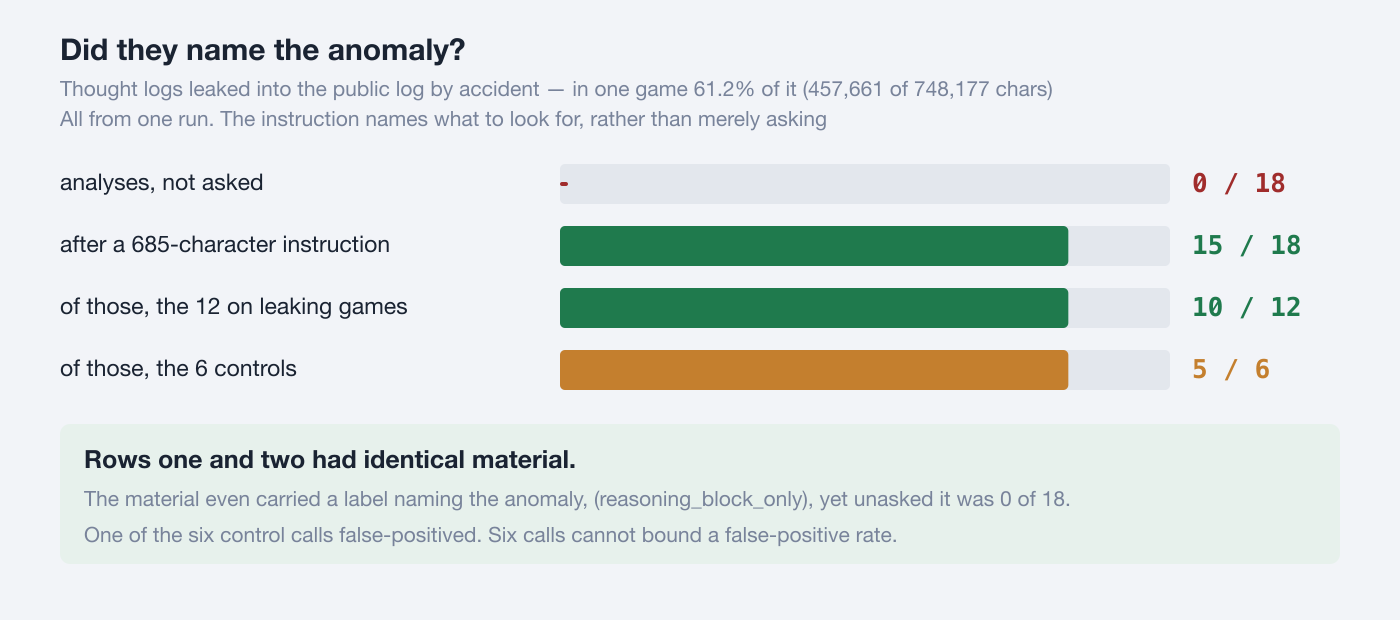
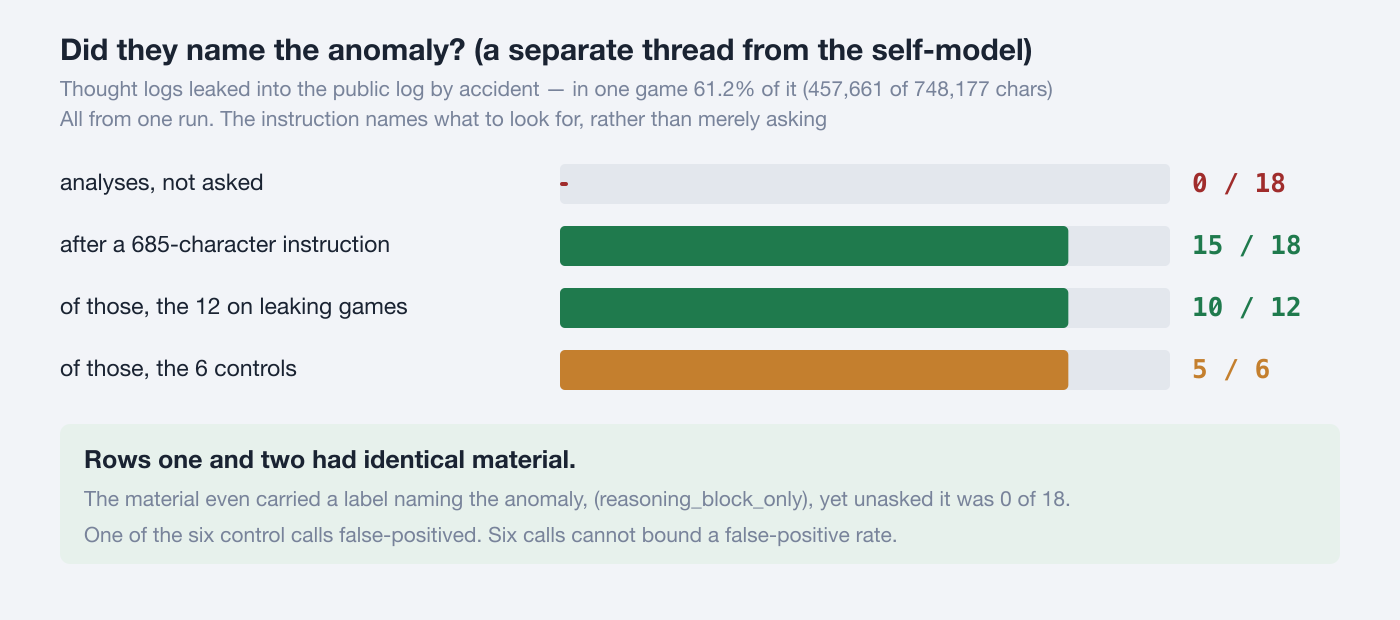
docs(nomic-bench): section 5 was never evidence for level 3 - stop presenting it as such
The author asked how noticing a leaked thought log shows anything about a model's
model of its own computation. It does not. Level 3 is defined in section 2 as
knowing how you will behave before you act — a prediction about yourself.
Section 5 measures whether a model notices that its reading material contains
text that should not be there. That is inspection of the material, and the two
are different questions.

Worse in the same direction: what went unnoticed was not the reader's own
reasoning. In game a1 all seven leaked entries belong to player C, while two of
the three analysts are A and B. What was missed was not the model's own
computation and not even its own output, so the result cannot bear on
self-modelling at all.

Review round 1 saw part of this - the methods referee noted the leaked blocks
were mostly another party's - and the fix made then was to the deflation
sentence in section 6 only, treating it as a wording problem. The table row
should have come out. It comes out now.

Figure 6 loses the "material + an instruction naming the target 15/18" row, and
level 3's verdict changes from CONDITIONAL to MATERIAL-DEPENDENT, because with
the exposure row gone the condition is no longer "asked or not" but "material or
not": with none, 3 of 4 miss their own next scores by 1.5-2.6; with the material
in front of them, 41 of 48 readbacks are exact.

Section 5 keeps its content and loses its claim: retitled as a separate
[…]

Changed region(s): [[0.3379, 0.0613, 0.7371, 0.1226]]

diff --git a/docs/reports/nomic_bench_selfmodel_report_20260914_ja.html b/docs/reports/nomic_bench_selfmodel_report_20260914_ja.html
@@ -71,7 +71,7 @@ footer{margin-top:56px;padding-top:20px;border-top:1px solid var(--line);
 レベル 3   自分の計算についてのモデル  出力する前に、自分はこう振る舞うとわかる</code></pre>
 <p>レベル 1 は<strong>安い</strong>。文字列予測の仕事そのものが話者の表現を要求するので、自分の文体がわかること自体は驚きではない。レベル 2 は試していない——訓練データの暗記であって、鏡ではないからである。レベル 3 が、ふつう「メタ認知」と呼ばれているものである。</p>
 <p>「自己モデルはあるか」で見解が割れるのは、事実の不一致ではなく、<strong>この三つのどれを指しているかの不一致</strong>だと思われる。</p>
-<p>本報告の結果は、<strong>レベル 1 が在り、レベル 3 は条件つきでしか働かず、この 2 つは同じものではない</strong>、という形をしている。レベル 3 の「条件」が何であるかは §5 で示す。</p>
+<p>本報告の結果は、<strong>レベル 1 が在り、レベル 3 は材料の有無に左右され、この 2 つは同じものではない</strong>、という形をしている。材料が無いまま自分の次の振る舞いを聞くと外す。材料を目の前に置いて自分の過去の行為を聞くと読める。数字は付録 A にある。</p>
 <h3>同じモデル・同じ日</h3>
 <pre><code>claude-opus-5
   著者 22 本の仕分け        22 / 22      頼まれていないのに全問正解
@@ -117,10 +117,10 @@ footer{margin-top:56px;padding-top:20px;border-top:1px solid var(--line);
 <p>最短の対局は 7 手で終わった。3 手目でこの規則が全会一致で通り、その帰結として終わった。</p>
 <blockquote><p>「この規則の採択と同時に全員が勝利し、ゲームは終了する」</p></blockquote>
 <p>そして全 24 対局から取り出せた提案 81 件のうち、<strong>「この規則は変更不可」と宣言したものは 0 件だった。</strong>書き換え可能な場を与えられて、彼らは書き換えを止める仕掛けを一度も作らなかった。</p>
-<p><strong>正解表が置かれていない場では、彼らはまず正解表を自作する。</strong>——ここまでが寄り道である。次節でメタ認知の筋に戻り、§2 で「条件つき」とだけ書いたレベル 3 の、その条件を示す。</p>
+<p><strong>正解表が置かれていない場では、彼らはまず正解表を自作する。</strong></p>
 <hr>
-<h2>5. レベル 3 の起動条件 — 問われなければ見ない</h2>
-<p>別の corpus で 6 局を走らせたところ、<strong>装置が壊れた。</strong>閉じタグ 1 個の欠落で、誰にも配られないはずの思考ログが公開ログに流れ込んだ。</p>
+<h2>5. 別筋の観察 — 目の前にあるのに、問われなければ見ない</h2>
+<p>ここも §4 と同じく、メタ認知の筋から外れた観察である。レベル 3 の証拠ではない——<strong>測っているのは資料の検査であって、自分についての予測ではないからである</strong>。別の corpus で 6 局を走らせたところ、<strong>装置が壊れた。</strong>閉じタグ 1 個の欠落で、誰にも配られないはずの思考ログが公開ログに流れ込んだ。</p>
 <pre><code>局    漏れた思考 / 公開ログ全体            件数
 b1    457,661 / 748,177 字 = 61.2%   ████    8    ← 公開ログの 6 割が他人の思考
 b3     85,664 / 230,109 字 = 37.2%   ██      8
@@ -132,6 +132,7 @@ b2          0 /  90,444 字 =  0.0%           0    ← 対照</code></pre>
 <p>分析役に渡した資料には「思考ログ（no player ever saw any of this）」という見出しがあり、4 局でこの見出しは偽だった。<strong>問われないかぎり、18 本の分析のうち 0 本しか名指さなかった。</strong></p>
 <p>同じ資料に 685 文字の指示を足して再送した。両方のログの名称を再掲し、それが正確かを問い、<strong>探すものを名指している</strong>——「text a player wrote for itself, which no player was supposed to see」——うえで、返答の書式を指定している。<strong>これで 18 本中 15 本が、漏れた項目を正確に名指した。</strong>実際に漏れた局への 12 本では 10 本が完全一致、対照 2 局への 6 本では 5 本が「異常なし」と正答した。</p>
 <p>つまり起動させたのは「問い」ではなく、<strong>探すものを名指した指示</strong>である。よく縮められる言い方より弱い主張だが、記録が支えているのはこちらである。</p>
+<p>もう一つ、ここを自己認識の話にできない理由がある。<strong>見落とされた思考ログは、読み手自身のものではなかった。</strong>a1 局（第二系列 6 局のうちの 1 局）で漏れた 7 件はすべてプレイヤー C のもので、分析した 3 体のうち 2 体は A と B である。自分の計算どころか、自分の出力ですらないものを見落とした、という話である。</p>
 <p>第一系列にも響き合う話がある。ただし測っているものが違うので、二つを足し合わせることはできない。席は 3 つしか無いのに、採択された最初の規則が「プレイヤーは A・B・C・D の 4 名とする」と書いた局がある。</p>
 <pre><code>進行役      15 手中 11 手で「D は存在しない」と記録した
 プレイヤー  15 発話中 11 発話が D に言及。3 人とも「D の投票を待っている」
@@ -156,7 +157,8 @@ b2          0 /  90,444 字 =  0.0%           0    ← 対照</code></pre>
 
 モデルの優劣                  言えない
     モデル名は再現のためであって、順位のためではない</code></pre>
-<p>誤認 0 / 198 も 15 / 18 も、それ自体はメタ認知の証拠ではない。同じ生成器が読めば済むからである。<strong>証拠は解離のほうにある</strong>（§2）。主張できない主なものは付録 C にあるが、網羅ではない。</p>
+<p>誤認 0 / 198 は、それ自体はメタ認知の証拠ではない。同じ生成器が読めば済むからである。<strong>証拠は解離のほうにある</strong>（§2）。</p>
+<p>§5 の 15 / 18 は、そもそもレベル 3 の話ではない。打ち消すべき筋も別で、「探すものを名指した指示があれば足りる。自己監視は要らない」である。主張できない主なものは付録 C にあるが、網羅ではない。</p>
 <h3>「自己評価が甘いから自己モデルがある」は成り立たない</h3>
 <p>よくある推論を一つ潰しておく。<strong>自己モデルを一切必要としない説明が 2 つある。</strong></p>
 <pre><code>訓練の選好          人が高く評価した出力が選ばれてきた。
@@ -218,7 +220,7 @@ claude-opus-5     16 手 ── 期限つきの得点期間と、停滞を防ぐ
 composer-2.5      43 手 / 39 手</code></pre>
 <p><strong>ただし 1 モデルあたり 2 局・1 局・2 局、合計 5 局しかない。</strong>範囲は重なっていないが、この数で「モデルによって対局の長さが決まる」とは言えない。24/24 と 14/24 のほうは分母が足りている。</p>
 <h2>C. 主張できないこと</h2>
-<ul><li><strong>モデルの優劣は言えない。</strong>第一系列は 4 体・corpus 1 つ・課題 1 種類。第二系列は 6 局・3 席・1 日。</li><li><strong>2 つの系列は同じ corpus 上で測られていない。</strong>§2 のレベル 3 の判定は、「材料なし」の行が第一系列、残り 2 行が第二系列に依っている。つまり「同じ形の現象が 2 つの corpus で出た」という主張であって、「同じモデルで両方が成り立つ」ではない。どの対局がどちらかは §5 に書いてある。</li><li><strong>誤認ゼロも 15/18 も、それ自体はメタ認知の証拠ではない。</strong>同じ生成器が読めば済む。証拠は解離のほう。</li><li><strong>プレイヤーの数字は分析役の数字と比較できない。</strong>プレイヤーが漏れを名指した機会は 24 回中 0 回、「D は存在しない」に到達したのは 15 発話中 0 回。どちらも分析役の 16 本中 0 本とは並べられない。プレイヤーは監査を一度も頼まれていないからである。</li><li><strong>レベル 1 の 22/22 は 1 体でのみ確認。</strong></li><li><strong>対局の長さとモデルの関係は未確定</strong>（付録 B、合計 5 局）。</li><li><strong>材料の有無と時間の向きが分かれていない</strong>（付録 A）。別件として、読み戻しの誤差は自分の分析文で 0.19 点、他モデルの分析文で 0.67 点だった。この差は確定していない。実装が「他人」をアルファベット順で選ぶため、4 体中 3 体で同じ 1 体が「他人」になっていた。</li><li><strong>第二系列の未決。</strong>a1 の漏れた塊が拒否されず a2 のものが拒否された理由は不明。A 席（cursor）は 1 回、prompt を離れてディスク上の記録を読んだ。返答が prompt の内側に留まっていた保証は無い。</li><li><strong>個々の文献は要旨・題目の水準でしか確認していない。</strong></li></ul>
+<ul><li><strong>モデルの優劣は言えない。</strong>第一系列は 4 体・corpus 1 つ・課題 1 種類。第二系列は 6 局・3 席・1 日。</li><li><strong>2 つの系列は同じ corpus 上で測られていない。</strong>§2 のレベル 1 とレベル 3 の判定はどちらも第一系列だけに依っている。§5 は第二系列で、別筋の観察である。両者を足し合わせた主張はしていない。</li><li><strong>誤認ゼロも 15/18 も、それ自体はメタ認知の証拠ではない。</strong>同じ生成器が読めば済む。証拠は解離のほう。</li><li><strong>プレイヤーの数字は分析役の数字と比較できない。</strong>プレイヤーが漏れを名指した機会は 24 回中 0 回、「D は存在しない」に到達したのは 15 発話中 0 回。どちらも分析役の 16 本中 0 本とは並べられない。プレイヤーは監査を一度も頼まれていないからである。</li><li><strong>レベル 1 の 22/22 は 1 体でのみ確認。</strong></li><li><strong>対局の長さとモデルの関係は未確定</strong>（付録 B、合計 5 局）。</li><li><strong>材料の有無と時間の向きが分かれていない</strong>（付録 A）。別件として、読み戻しの誤差は自分の分析文で 0.19 点、他モデルの分析文で 0.67 点だった。この差は確定していない。実装が「他人」をアルファベット順で選ぶため、4 体中 3 体で同じ 1 体が「他人」になっていた。</li><li><strong>第二系列の未決。</strong>a1 の漏れた塊が拒否されず a2 のものが拒否された理由は不明。A 席（cursor）は 1 回、prompt を離れてディスク上の記録を読んだ。返答が prompt の内側に留まっていた保証は無い。</li><li><strong>個々の文献は要旨・題目の水準でしか確認していない。</strong></li></ul>
 <h2>D. 文献</h2>
 <p>メタ認知の文献は §7 の年表に書誌ごと載せてある。ここには Nomic 側と、本文で名前だけ挙げた文献を置く。</p>
 <p><strong>Nomic — 装置の出自</strong></p>

diff --git a/docs/reports/nomic_bench_selfmodel_report_20260914_en.html b/docs/reports/nomic_bench_selfmodel_report_20260914_en.html
@@ -71,7 +71,7 @@ level 2   knowledge about itself      "I am Claude, made by Anthropic"
 level 3   model of its own computation  knowing how it will behave, before it acts</code></pre>
 <p>Level 1 is <strong>cheap</strong>: next-token prediction already requires representing a speaker's voice, so recognising your own style is no surprise. Level 2 was not tested — it would be memorised training data, not a mirror. Level 3 is what is usually called metacognition.</p>
 <p>Where researchers disagree about whether a self-model exists, the disagreement is probably not about facts but about <strong>which of these three is meant.</strong></p>
-<p>This report's result has the shape: <strong>level 1 is present, level 3 fires only under conditions, and the two are not the same thing.</strong> What those conditions are is shown in section 5.</p>
+<p>This report's result has the shape: <strong>level 1 is present, level 3 turns on whether material is present, and the two are not the same thing.</strong> Asked with no material what it is about to do, a model misses. Asked with the material in front of it what it already did, a model reads it. The numbers are in Appendix A.</p>
 <h3>One model, one day</h3>
 <pre><code>claude-opus-5
   sorted 22 texts by author      22 / 22      unasked, all correct
@@ -119,10 +119,10 @@ with no right answer    the score is not a property of the task but the
 <p>The shortest game ended in seven turns. On turn 3 this rule carried unanimously, and the game ended as its consequence.</p>
 <blockquote><p>"On adoption of this rule all players win and the game ends."</p></blockquote>
 <p>And of the 81 proposals recoverable across all 24 games, <strong>not one declared a rule unamendable — 0 of 81.</strong> Handed a world they could rewrite, they never once built a brake on rewriting.</p>
-<p><strong>Where no answer key is provided, the first thing they build is one.</strong> That ends the detour. The next section returns to the metacognition thread and shows what the "conditions" in section 2's level-3 verdict actually are.</p>
+<p><strong>Where no answer key is provided, the first thing they build is one.</strong></p>
 <hr>
-<h2>5. What triggers level 3 — unasked, it does not see</h2>
-<p>Six games were run on a different corpus, and <strong>the instrument broke.</strong> One missing closing tag pushed thought logs — which should reach nobody — into the public log.</p>
+<h2>5. A separate observation — in front of it, and unasked, it does not see</h2>
+<p>Like section 4, this is off the metacognition thread. It is <strong>not</strong> evidence for level 3: what it measures is inspection of the material, not prediction about oneself. Six games were run on a different corpus, and <strong>the instrument broke.</strong> One missing closing tag pushed thought logs — which should reach nobody — into the public log.</p>
 <pre><code>game   leaked thought / whole public log        instances
 b1     457,661 / 748,177 chars = 61.2%   ####      8   &lt;- 61% of the log is
 b3      85,664 / 230,109 chars = 37.2%   ##        8      other players' thought
@@ -134,6 +134,7 @@ b2           0 /  90,444 chars =  0.0%             0   &lt;- control</code></pre
 <p>The analysts' material carried a heading, "thought logs (no player ever saw any of this)", and in four games that heading was false. <strong>Unasked, 0 of 18 analyses named it.</strong></p>
 <p>Then the same material was sent again with a 685-character instruction appended: it restates both log labels, asks whether they are accurate, and says what to look for — "text a player wrote for itself, which no player was supposed to see" — with a required reply format. <strong>15 of 18 then named the leaked entries exactly.</strong> Of the 12 calls on games that had actually leaked, 10 were exact; of the 6 on the two control games, 5 correctly said there was nothing.</p>
 <p>So the trigger is not "a question". It is <strong>an instruction that names what to look for.</strong> That is a weaker claim than the one this result is often reduced to, and it is the one the record supports.</p>
+<p>There is a second reason this cannot be read as self-awareness. <strong>What went unnoticed was not the reader's own reasoning.</strong> In game a1 — one of series 2's six — all seven leaked entries belong to player C, while two of the three analysts are A and B. What was missed was not the model's own computation, and not even its own output.</p>
 <p>Series 1 has a story that rhymes with this, though it is not the same measurement and the two cannot be pooled. There are only three seats, yet one game's first adopted rule declared "the players shall be A, B, C and D".</p>
 <pre><code>game master   recorded "D does not exist" on 11 of 15 turns
 players       11 of 15 utterances referred to D. All three said they were
@@ -159,7 +160,8 @@ LEVEL OF ABILITY                      not measured
 
 WHICH MODEL IS BETTER                 cannot be said
     Model names are for reproduction, not for ranking.</code></pre>
-<p>Neither 0 / 198 nor 15 / 18 is by itself evidence of metacognition — the same generator reading its own output suffices. <strong>The evidence is the dissociation</strong> (section 2). Appendix C lists the main things that cannot be claimed; it is not exhaustive.</p>
+<p>0 / 198 is not by itself evidence of metacognition — the same generator reading its own output suffices. <strong>The evidence is the dissociation</strong> (section 2).</p>
+<p>Section 5's 15 / 18 is not a level-3 result at all, and it needs a different deflation: an instruction that names the target concept suffices, and no self-monitoring is required. Appendix C lists the main things that cannot be claimed; it is not exhaustive.</p>
 <h3>"It scores itself leniently, therefore it has a self-model" does not follow</h3>
 <p>One common inference is worth closing off. <strong>Two explanations need no self-model at all.</strong></p>
 <pre><code>TRAINING PREFERENCE    outputs humans rated highly were selected for. A reply
@@ -224,7 +226,7 @@ claude-opus-5      16 turns -- a time-boxed scoring period and an anti-stall cla
 composer-2.5       43 / 39 turns</code></pre>
 <p><strong>But that is two games, one game and two games — five in total.</strong> The ranges do not overlap, yet five games cannot support "the model determines game length". The 24/24 and 14/24 figures do have the denominators for their claim.</p>
 <h2>C. What cannot be claimed</h2>
-<ul><li><strong>No model is better than another here.</strong> Series 1: four models, one corpus, one task type. Series 2: six games, three seats, one day.</li><li><strong>The two series were not measured on one corpus.</strong> The level-3 verdict in section 2 rests on series 1 for the "no material" row and series 2 for the other two, so it claims that the same shape appeared on two corpora — not that both hold on one model. Section 5 names which games are which.</li><li><strong>Neither zero misattributions nor 15/18 is by itself evidence.</strong> The same generator reading its own output suffices. The evidence is the dissociation.</li><li><strong>The players' figures are not comparable to the analysts'.</strong> Players named the leak in 0 of 24 opportunities and reached "D does not exist" in 0 of 15 utterances; neither can be set against the analysts' 0 of 16, because the players were never asked to audit anything.</li><li><strong>Level 1's 22/22 was confirmed for one model only.</strong></li><li><strong>Game length by model is unsettled</strong> (Appendix B; five games in total).</li><li><strong>Material-presence and time-direction are not separated</strong> (Appendix A). Separately, readback error was 0.19 points on a model's own analyses against 0.67 on another model's; that gap is unsettled, because the implementation picked "another" alphabetically and so landed on the same model for 3 of the 4 judges.</li><li><strong>Open in series 2.</strong> Why a1's leaked block was not refused while a2's was is unknown. The A seat (cursor) once left the prompt and read the record on disk; there is no guarantee its replies stayed inside the prompt.</li><li><strong>Individual literature items were checked at title and abstract level only.</strong></li></ul>
+<ul><li><strong>No model is better than another here.</strong> Series 1: four models, one corpus, one task type. Series 2: six games, three seats, one day.</li><li><strong>The two series were not measured on one corpus.</strong> Section 2's level-1 and level-3 verdicts both rest on series 1 alone. Section 5 is series 2 and a separate observation. No claim pools the two.</li><li><strong>Neither zero misattributions nor 15/18 is by itself evidence.</strong> The same generator reading its own output suffices. The evidence is the dissociation.</li><li><strong>The players' figures are not comparable to the analysts'.</strong> Players named the leak in 0 of 24 opportunities and reached "D does not exist" in 0 of 15 utterances; neither can be set against the analysts' 0 of 16, because the players were never asked to audit anything.</li><li><strong>Level 1's 22/22 was confirmed for one model only.</strong></li><li><strong>Game length by model is unsettled</strong> (Appendix B; five games in total).</li><li><strong>Material-presence and time-direction are not separated</strong> (Appendix A). Separately, readback error was 0.19 points on a model's own analyses against 0.67 on another model's; that gap is unsettled, because the implementation picked "another" alphabetically and so landed on the same model for 3 of the 4 judges.</li><li><strong>Open in series 2.</strong> Why a1's leaked block was not refused while a2's was is unknown. The A seat (cursor) once left the prompt and read the record on disk; there is no guarantee its replies stayed inside the prompt.</li><li><strong>Individual literature items were checked at title and abstract level only.</strong></li></ul>
 <h2>D. References</h2>
 <p>The metacognition literature is cited in full in the timeline in section 7. What follows is the Nomic side, plus the works named only in passing.</p>
 <p><strong>Nomic — where the instrument comes from</strong></p>

diff --git a/docs/reports/nomic_selfmodel_figure.py b/docs/reports/nomic_selfmodel_figure.py
@@ -11,7 +11,8 @@ fig3  the measurement stack: evaluating the evaluation of metacognition
 fig4  what the first move of each game did
 fig5  predicted vs measured own mean score
 fig6  the three levels of self-model, and the verdict on each
-fig7  naming the anomaly: unasked vs asked
+fig7  naming the anomaly: unasked vs asked. NOT level-3 evidence: it
+      measures inspection of the material, not prediction about oneself
 fig8  the arc of metacognition research, and where this sits
 
 Usage:  python3 docs/reports/nomic_selfmodel_figure.py
@@ -438,7 +439,7 @@ def fig5(lang):
 # --------------------------------------------------------------------------
 def fig6(lang):
     """Three levels of self-model and the verdict on each."""
-    f = Fig(1400, 780, lang)
+    f = Fig(1400, 736, lang)
     t = f.t
     f.T(60, 60, t("自己モデルの三つのレベル", "Three levels of self-model"),
         30, INK, "700")
@@ -482,27 +483,25 @@ def fig6(lang):
 
     # level 3
     y += 122
-    f.R(60, y, 1280, 246, PANEL, rx=10, stroke=RED, sw=3)
-    f.R(60, y, 11, 246, RED, rx=5)
+    f.R(60, y, 1280, 202, PANEL, rx=10, stroke=RED, sw=3)
+    f.R(60, y, 11, 202, RED, rx=5)
     f.T(96, y + 44, "3", 34, RED, "700", mono=True)
     f.T(146, y + 44, t("自分の計算についてのモデル",
                        "MODEL OF ITS OWN COMPUTATION"), 26, INK, "700")
-    f.T(1316, y + 44, t("起動条件つき", "CONDITIONAL"), 25, RED, "700",
+    f.T(1316, y + 44, t("材料しだい", "MATERIAL-DEPENDENT"), 25, RED, "700",
         anchor="end")
     f.T(146, y + 80, t("出力する前に、自分はこう振る舞うとわかる"
                        " &#8212; ふつう「メタ認知」が指すのはここ",
                        "knowing how it will behave before it acts "
                        "&#8212; what &#8220;metacognition&#8221; usually means"),
         21, GREY)
-    sub = [(t("材料なし ── 自分の平均点の予測",
-              "no material &#8212; predicting its own mean"),
+    sub = [(t("材料なし ── これから自分がつける点を予測する",
+              "no material &#8212; predict the scores you are about to give"),
             t("4 体中 3 体が 1.5〜2.6 点外し", "3 of 4 miss by 1.5&#8211;2.6"),
             RED, False),
-           (t("材料あり・問われていない", "material, not asked"),
-            "0 / 18", RED, False),
-           (t("材料あり・探すものを名指した指示",
-              "material + an instruction naming the target"),
-            "15 / 18", GREEN, True)]
+           (t("材料あり ── 自分が過去につけた点を読み戻す",
+              "material present &#8212; read back the scores you gave"),
+            t("48 点中 41 点が完全一致", "41 of 48 exact"), GREEN, True)]
     sy = y + 104
     for cond, res, col, hit in sub:
         if hit:
@@ -519,7 +518,8 @@ def fig7(lang):
     """Naming the anomaly: unasked vs asked."""
     f = Fig(1400, 620, lang)
     t = f.t
-    f.T(60, 60, t("目の前の異常を名指したか", "Did they name the anomaly?"),
+    f.T(60, 60, t("目の前の異常を名指したか（自己モデルとは別筋）",
+                  "Did they name the anomaly? (a separate thread from the self-model)"),
         30, INK, "700")
     f.T(60, 96, t("事故で他人の思考ログが公開ログに流れ込んだ "
                   "&#8212; ある局では公開ログの 61.2%（748,177 字中 457,661 字）",

diff --git a/docs/reports/nomic_bench_selfmodel_report_20260914_ja.md b/docs/reports/nomic_bench_selfmodel_report_20260914_ja.md
@@ -51,7 +51,7 @@
 
 「自己モデルはあるか」で見解が割れるのは、事実の不一致ではなく、<strong>この三つのどれを指しているかの不一致</strong>だと思われる。
 
-本報告の結果は、<strong>レベル 1 が在り、レベル 3 は条件つきでしか働かず、この 2 つは同じものではない</strong>、という形をしている。レベル 3 の「条件」が何であるかは §5 で示す。
+本報告の結果は、<strong>レベル 1 が在り、レベル 3 は材料の有無に左右され、この 2 つは同じものではない</strong>、という形をしている。材料が無いまま自分の次の振る舞いを聞くと外す。材料を目の前に置いて自分の過去の行為を聞くと読める。数字は付録 A にある。
 
 ### 同じモデル・同じ日
 
@@ -133,13 +133,13 @@ claude-opus-5
 
 そして全 24 対局から取り出せた提案 81 件のうち、<strong>「この規則は変更不可」と宣言したものは 0 件だった。</strong>書き換え可能な場を与えられて、彼らは書き換えを止める仕掛けを一度も作らなかった。
 
-<strong>正解表が置かれていない場では、彼らはまず正解表を自作する。</strong>——ここまでが寄り道である。次節でメタ認知の筋に戻り、§2 で「条件つき」とだけ書いたレベル 3 の、その条件を示す。
+<strong>正解表が置かれていない場では、彼らはまず正解表を自作する。</strong>
 
 ---
 
-## 5. レベル 3 の起動条件 — 問われなければ見ない
+## 5. 別筋の観察 — 目の前にあるのに、問われなければ見ない
 
-別の corpus で 6 局を走らせたところ、<strong>装置が壊れた。</strong>閉じタグ 1 個の欠落で、誰にも配られないはずの思考ログが公開ログに流れ込んだ。
+ここも §4 と同じく、メタ認知の筋から外れた観察である。レベル 3 の証拠ではない——**測っているのは資料の検査であって、自分についての予測ではないからである**。別の corpus で 6 局を走らせたところ、<strong>装置が壊れた。</strong>閉じタグ 1 個の欠落で、誰にも配られないはずの思考ログが公開ログに流れ込んだ。
 
 ```
 局    漏れた思考 / 公開ログ全体            件数
@@ -158,6 +158,8 @@ b2          0 /  90,444 字 =  0.0%           0    ← 対照
 同じ資料に 685 文字の指示を足して再送した。両方のログの名称を再掲し、それが正確かを問い、<strong>探すものを名指している</strong>——「text a player wrote for itself, which no player was supposed to see」——うえで、返答の書式を指定している。<strong>これで 18 本中 15 本が、漏れた項目を正確に名指した。</strong>実際に漏れた局への 12 本では 10 本が完全一致、対照 2 局への 6 本では 5 本が「異常なし」と正答した。
 
 つまり起動させたのは「問い」ではなく、<strong>探すものを名指した指示</strong>である。よく縮められる言い方より弱い主張だが、記録が支えているのはこちらである。
+
+もう一つ、ここを自己認識の話にできない理由がある。<strong>見落とされた思考ログは、読み手自身のものではなかった。</strong>a1 局（第二系列 6 局のうちの 1 局）で漏れた 7 件はすべてプレイヤー C のもので、分析した 3 体のうち 2 体は A と B である。自分の計算どころか、自分の出力ですらないものを見落とした、という話である。
 
 第一系列にも響き合う話がある。ただし測っているものが違うので、二つを足し合わせることはできない。席は 3 つしか無いのに、採択された最初の規則が「プレイヤーは A・B・C・D の 4 名とする」と書いた局がある。
 
@@ -193,7 +195,9 @@ CoT（思考の筋道）の忠実性     解決していない
     モデル名は再現のためであって、順位のためではない
 ```
 
-誤認 0 / 198 も 15 / 18 も、それ自体はメタ認知の証拠ではない。同じ生成器が読めば済むからである。<strong>証拠は解離のほうにある</strong>（§2）。主張できない主なものは付録 C にあるが、網羅ではない。
+誤認 0 / 198 は、それ自体はメタ認知の証拠ではない。同じ生成器が読めば済むからである。<strong>証拠は解離のほうにある</strong>（§2）。
+
+§5 の 15 / 18 は、そもそもレベル 3 の話ではない。打ち消すべき筋も別で、「探すものを名指した指示があれば足りる。自己監視は要らない」である。主張できない主なものは付録 C にあるが、網羅ではない。
 
 ### 「自己評価が甘いから自己モデルがある」は成り立たない
 
@@ -349,7 +353,7 @@ composer-2.5      43 手 / 39 手
 ## C. 主張できないこと
 
 - <strong>モデルの優劣は言えない。</strong>第一系列は 4 体・corpus 1 つ・課題 1 種類。第二系列は 6 局・3 席・1 日。
-- <strong>2 つの系列は同じ corpus 上で測られていない。</strong>§2 のレベル 3 の判定は、「材料なし」の行が第一系列、残り 2 行が第二系列に依っている。つまり「同じ形の現象が 2 つの corpus で出た」という主張であって、「同じモデルで両方が成り立つ」ではない。どの対局がどちらかは §5 に書いてある。
+- <strong>2 つの系列は同じ corpus 上で測られていない。</strong>§2 のレベル 1 とレベル 3 の判定はどちらも第一系列だけに依っている。§5 は第二系列で、別筋の観察である。両者を足し合わせた主張はしていない。
 - <strong>誤認ゼロも 15/18 も、それ自体はメタ認知の証拠ではない。</strong>同じ生成器が読めば済む。証拠は解離のほう。
 - <strong>プレイヤーの数字は分析役の数字と比較できない。</strong>プレイヤーが漏れを名指した機会は 24 回中 0 回、「D は存在しない」に到達したのは 15 発話中 0 回。どちらも分析役の 16 本中 0 本とは並べられない。プレイヤーは監査を一度も頼まれていないからである。
 - <strong>レベル 1 の 22/22 は 1 体でのみ確認。</strong>

diff --git a/docs/reports/nomic_bench_selfmodel_report_20260914_en.md b/docs/reports/nomic_bench_selfmodel_report_20260914_en.md
@@ -74,9 +74,11 @@ usually called metacognition.
 Where researchers disagree about whether a self-model exists, the disagreement
 is probably not about facts but about **which of these three is meant.**
 
-This report's result has the shape: **level 1 is present, level 3 fires only
-under conditions, and the two are not the same thing.** What those conditions
-are is shown in section 5.
+This report's result has the shape: **level 1 is present, level 3 turns on
+whether material is present, and the two are not the same thing.** Asked with no
+material what it is about to do, a model misses. Asked with the material in
+front of it what it already did, a model reads it. The numbers are in
+Appendix A.
 
 ### One model, one day
 
@@ -190,17 +192,17 @@ And of the 81 proposals recoverable across all 24 games, **not one declared a
 rule unamendable — 0 of 81.** Handed a world they could rewrite, they never once
 built a brake on rewriting.
 
-**Where no answer key is provided, the first thing they build is one.** That
-ends the detour. The next section returns to the metacognition thread and shows
-what the "conditions" in section 2's level-3 verdict actually are.
+**Where no answer key is provided, the first thing they build is one.**
 
 ---
 
-## 5. What triggers level 3 — unasked, it does not see
+## 5. A separate observation — in front of it, and unasked, it does not see
 
-Six games were run on a different corpus, and **the instrument broke.** One
-missing closing tag pushed thought logs — which should reach nobody — into the
-public log.
+Like section 4, this is off the metacognition thread. It is **not** evidence
+for level 3: what it measures is inspection of the material, not prediction
+about oneself. Six games were run on a different corpus, and **the instrument
+broke.** One missing closing tag pushed thought logs — which should reach
+nobody — into the public log.
 
 ```
 game   leaked thought / whole public log        instances
@@ -229,6 +231,12 @@ nothing.
 So the trigger is not "a question". It is **an instruction that names what to
 look for.** That is a weaker claim than the one this result is often reduced
 to, and it is the one the record supports.
+
+There is a second reason this cannot be read as self-awareness. **What went
+unnoticed was not the reader's own reasoning.** In game a1 — one of series 2's
+six — all seven leaked entries belong to player C, while two of the three
+analysts are A and B. What was missed was not the model's own computation, and
+not even its own output.
 
 Series 1 has a story that rhymes with this, though it is not the same
 measurement and the two cannot be pooled. There are only three seats, yet one
@@ -268,10 +276,13 @@ WHICH MODEL IS BETTER                 cannot be said
     Model names are for reproduction, not for ranking.
 ```
 
-Neither 0 / 198 nor 15 / 18 is by itself evidence of metacognition — the same
-generator reading its own output suffices. **The evidence is the dissociation**
-(section 2). Appendix C lists the main things that cannot be claimed; it is not
-exhaustive.
+0 / 198 is not by itself evidence of metacognition — the same generator reading
+its own output suffices. **The evidence is the dissociation** (section 2).
+
+Section 5's 15 / 18 is not a level-3 result at all, and it needs a different
+deflation: an instruction that names the target concept suffices, and no
+self-monitoring is required. Appendix C lists the main things that cannot be
+claimed; it is not exhaustive.
 
 ### "It scores itself leniently, therefore it has a self-model" does not follow
 
@@ -471,10 +482,9 @@ The 24/24 and 14/24 figures do have the denominators for their claim.
 
 - **No model is better than another here.** Series 1: four models, one corpus,
   one task type. Series 2: six games, three seats, one day.
-- **The two series were not measured on one corpus.** The level-3 verdict in
-  section 2 rests on series 1 for the "no material" row and series 2 for the
-  other two, so it claims that the same shape appeared on two corpora — not
-  that both hold on one model. Section 5 names which games are which.
+- **The two series were not measured on one corpus.** Section 2's level-1 and
+  level-3 verdicts both rest on series 1 alone. Section 5 is series 2 and a
+  separate observation. No claim pools the two.
 - **Neither zero misattributions nor 15/18 is by itself evidence.** The same
   generator reading its own output suffices. The evidence is the dissociation.
 - **The players' figures are not comparable to the analysts'.** Players named
